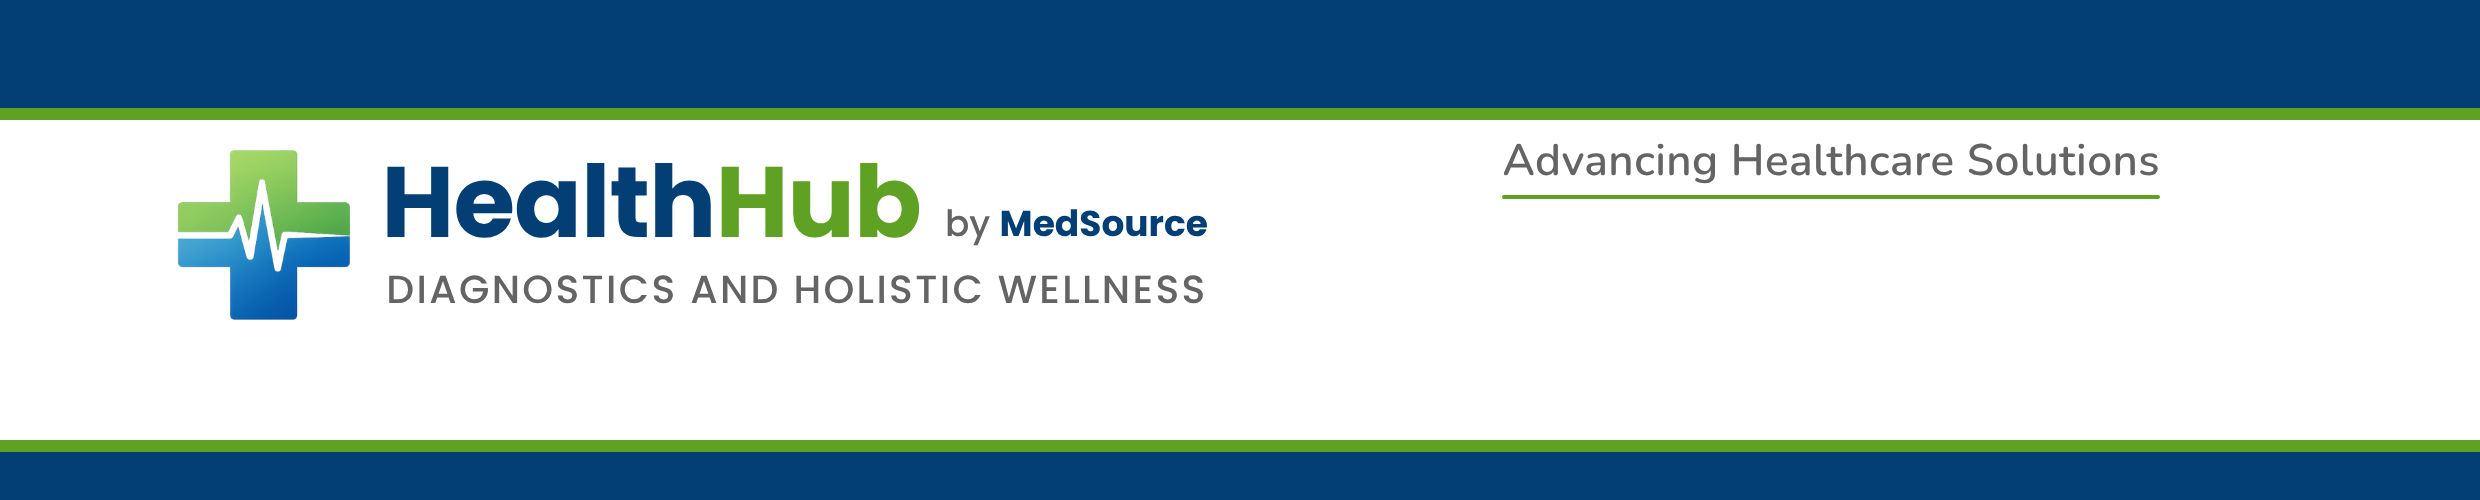
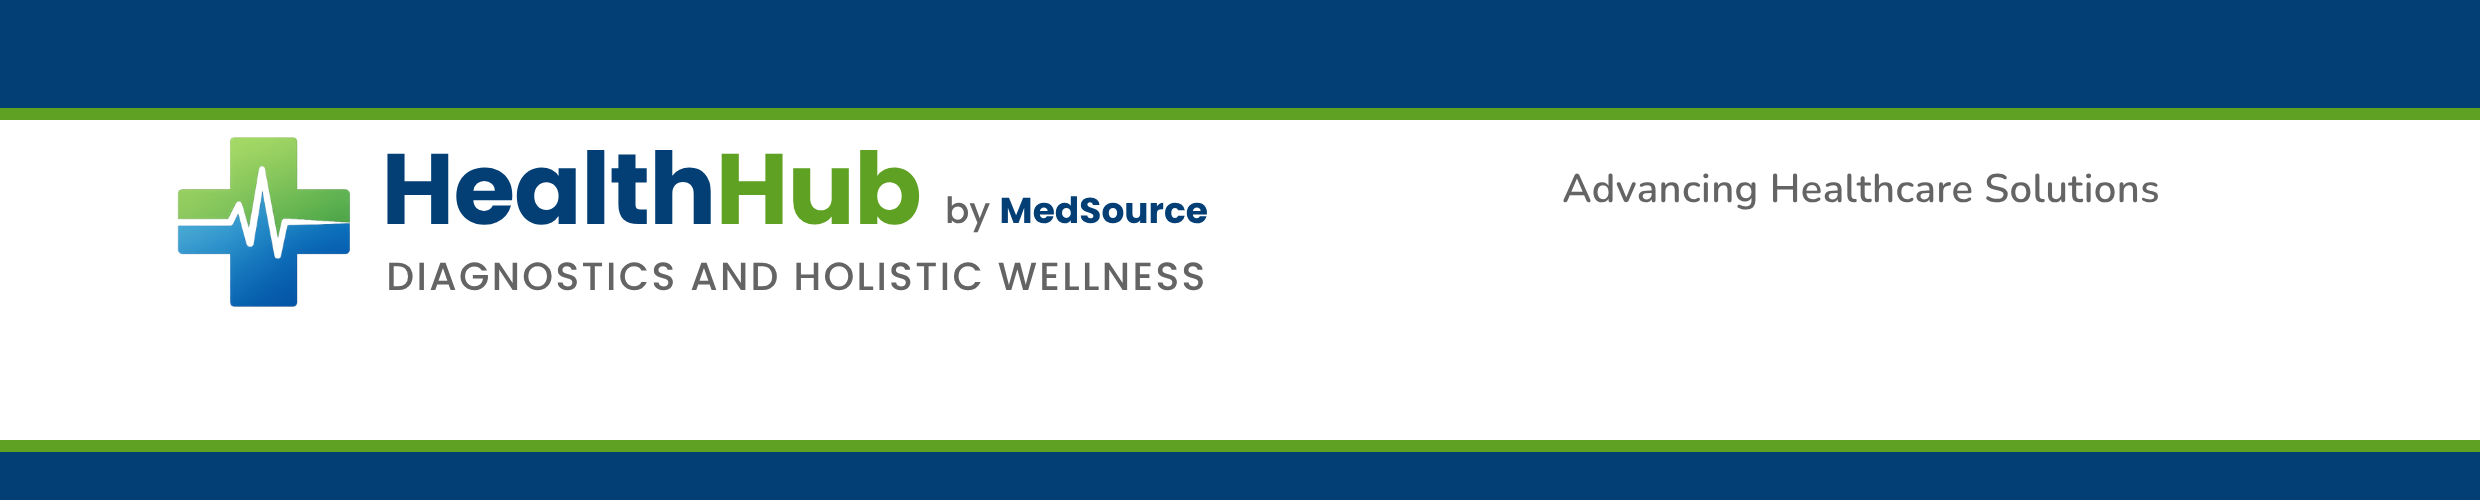
HealthHub letterhead: centre tagline on wordmark cap height
Claude-Session: https://claude.ai/code/session_016dL7ufMN2VFfGBhqrXKWEq

diff --git a/healthhub/print/2026-10-healthhub-letterhead/source.html b/healthhub/print/2026-10-healthhub-letterhead/source.html
@@ -32,7 +32,7 @@ body{background:#888;font-family:"Nunito",sans-serif;display:flex;flex-direction
 <div class="piece" id="h1" style="height:500px">
   <div class="bar" style="top:0;height:120px"></div>
   <div class="acc" style="top:108px;height:12px"></div>
-  <div class="lock" id="lock1" style="top:120px;height:230px" data-s="100">
+  <div class="lock" id="lock1" style="top:120px;height:204px" data-s="100">
     <img src="assets/healthhub-mark.png" style="height:170px" alt="HealthHub mark">
     <div class="txt">
       <div class="name"><span class="wm"><span class="w" style="color:var(--navy)">Health</span><span class="w" style="color:var(--green)">Hub</span></span></div>
@@ -40,7 +40,7 @@ body{background:#888;font-family:"Nunito",sans-serif;display:flex;flex-direction
       <div class="desc">Diagnostics and Holistic Wellness</div>
     </div>
   </div>
-  <div class="tagwrap" style="top:135px"><div class="tag" style="font-size:44px;line-height:52px">Advancing Healthcare Solutions</div><i style="margin-top:8px"></i></div>
+  <div class="tagwrap" id="tag1" style="top:135px"><div class="tag" style="font-size:40px;line-height:48px">Advancing Healthcare Solutions</div></div>
   <div class="acc" style="top:440px;height:12px"></div>
   <div class="bar" style="top:440px;height:60px"></div>
   <div class="acc" style="top:440px;height:12px"></div>
@@ -58,7 +58,7 @@ body{background:#888;font-family:"Nunito",sans-serif;display:flex;flex-direction
       <div class="desc">Diagnostics and Holistic Wellness</div>
     </div>
   </div>
-  <div class="tagwrap" style="top:108px"><div class="tag" style="font-size:38px;line-height:46px">Advancing Healthcare Solutions</div><i style="margin-top:8px"></i></div>
+  <div class="tagwrap" id="tag2" style="top:108px"><div class="tag" style="font-size:38px;line-height:46px">Advancing Healthcare Solutions</div><i style="margin-top:8px"></i></div>
   <div class="acc" style="top:218px;height:8px"></div>
   <div class="bar" style="top:226px;height:24px"></div>
 </div>
@@ -74,7 +74,7 @@ body{background:#888;font-family:"Nunito",sans-serif;display:flex;flex-direction
       <div class="desc">Diagnostics and Holistic Wellness</div>
     </div>
   </div>
-  <div class="tagwrap" style="top:96px"><div class="tag" style="font-size:38px;line-height:46px">Advancing Healthcare Solutions</div><i style="margin-top:8px"></i></div>
+  <div class="tagwrap" id="tag3" style="top:96px"><div class="tag" style="font-size:38px;line-height:46px">Advancing Healthcare Solutions</div><i style="margin-top:8px"></i></div>
   <div class="acc" style="top:218px;height:8px"></div>
   <div class="bar" style="top:226px;height:24px"></div>
 </div>
@@ -100,6 +100,13 @@ function fit(lock){
   txt.style.width=rowW+'px'; txt.style.height=(dCap+CAP*d)+'px';
   if(img) txt.style.marginLeft=(.45*X)+'px';
 }
-document.fonts.ready.then(()=>{document.querySelectorAll('.lock').forEach(fit);document.body.dataset.ready='1'});
+function alignTag(lockId,tagId){
+  const lock=document.getElementById(lockId),tag=document.getElementById(tagId),piece=lock.parentElement,t=tag.querySelector('.tag');
+  const P=piece.getBoundingClientRect(),txt=lock.querySelector('.txt').getBoundingClientRect();
+  const X=.703*(+lock.dataset.s), capCenter=txt.top-P.top+X/2;
+  const lh=parseFloat(getComputedStyle(t).lineHeight);
+  tag.style.top=(capCenter-lh/2)+'px';
+}
+document.fonts.ready.then(()=>{document.querySelectorAll('.lock').forEach(fit);alignTag('lock1','tag1');alignTag('lock2','tag2');alignTag('lock3','tag3');document.body.dataset.ready='1'});
 </script>
 </body></html>

diff --git a/healthhub/print/2026-10-healthhub-letterhead/print.md b/healthhub/print/2026-10-healthhub-letterhead/print.md
@@ -8,7 +8,7 @@
 | Status | Draft |
 | Design | [MedSource HealthHub Design System](https://claude.ai/artifact/9rBBbMZtz8yim7BnH17PUR) (flat navy #033F75 and green #5FA122, Nunito). MedHealth logo carried over with the name changed to HealthHub by MedSource. Source: [source.html](source.html) |
 
-Follows the HealthHub design system: flat colour only (gradients stay inside the logo), navy bars on the outer edges with a thin flat green accent line next to the white area, tagline "Advancing Healthcare Solutions" in Nunito SemiBold grey with a short green rule. The lockup keeps HealthHub and a smaller "by MedSource" on one baseline with the descriptor beneath, set to the full row width and tracked +6%. Gaps are measured from the wordmark cap height X (mark to text 0.45X, row to descriptor 0.55X), the descriptor aligns with the H stem and the end of MedSource, and the text block is centred on the cross. The standalone logo uses the design system ratio (mark about 2.05X). The tagline centred on the lockup (header first page keeps it inside the optional tagline band). The cross and heartbeat mark is untouched (cropped from the supplied MedHealth logo). Only the name changed: "MedHealth" became "HealthHub" with a smaller "by MedSource", in the logo's own Poppins lettering, with the descriptor kept the same width as the wordmark.
+Follows the HealthHub design system: flat colour only (gradients stay inside the logo), navy bars on the outer edges with a thin flat green accent line next to the white area, tagline "Advancing Healthcare Solutions" in Nunito SemiBold grey with a short green rule. The lockup keeps HealthHub and a smaller "by MedSource" on one baseline with the descriptor beneath, set to the full row width and tracked +6%. Gaps are measured from the wordmark cap height X (mark to text 0.45X, row to descriptor 0.55X), the descriptor aligns with the H stem and the end of MedSource, and the text block is centred on the cross. The standalone logo uses the design system ratio (mark about 2.05X). The tagline vertically centred on the wordmark cap height in all three pieces (header first page has no underline so it stays inside the optional tagline band). The cross and heartbeat mark is untouched (cropped from the supplied MedHealth logo). Only the name changed: "MedHealth" became "HealthHub" with a smaller "by MedSource", in the logo's own Poppins lettering, with the descriptor kept the same width as the wordmark.
 
 Fitted to [LETTERHEAD-SPEC.md](../../../LETTERHEAD-SPEC.md). First page header keeps Zone A (branch tag) and Zone B (phone, email, address) blank because the system prints them. The logo ends at x 1184, y 340, nothing sits under the logo, and only the optional tagline sits at the top right.
 
